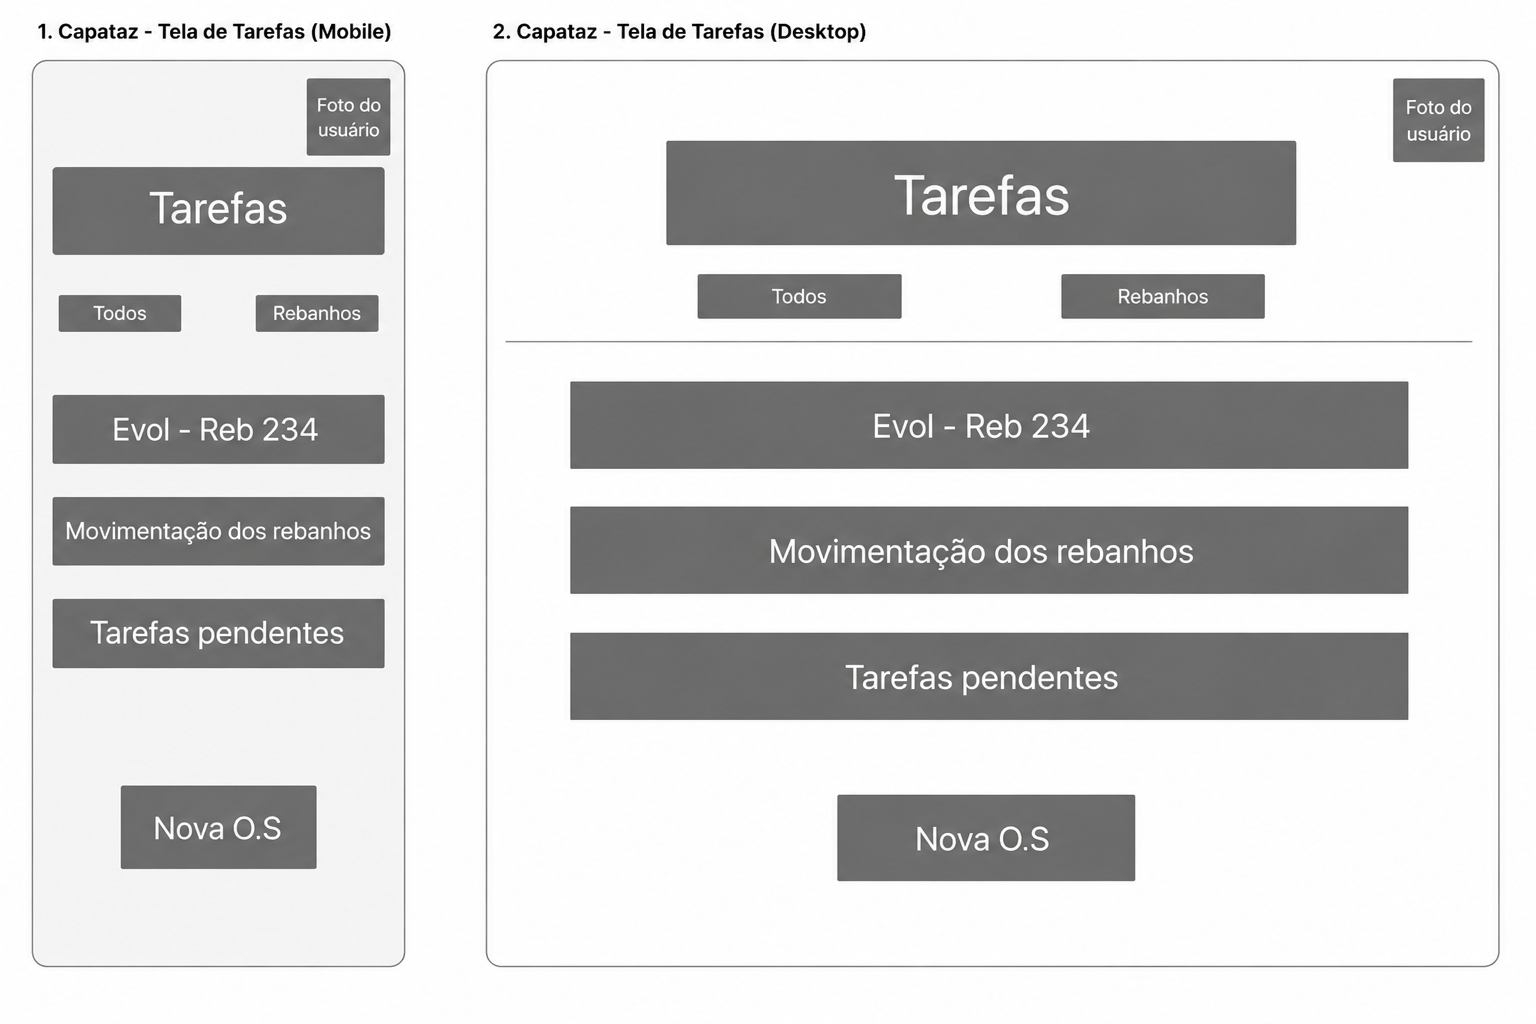
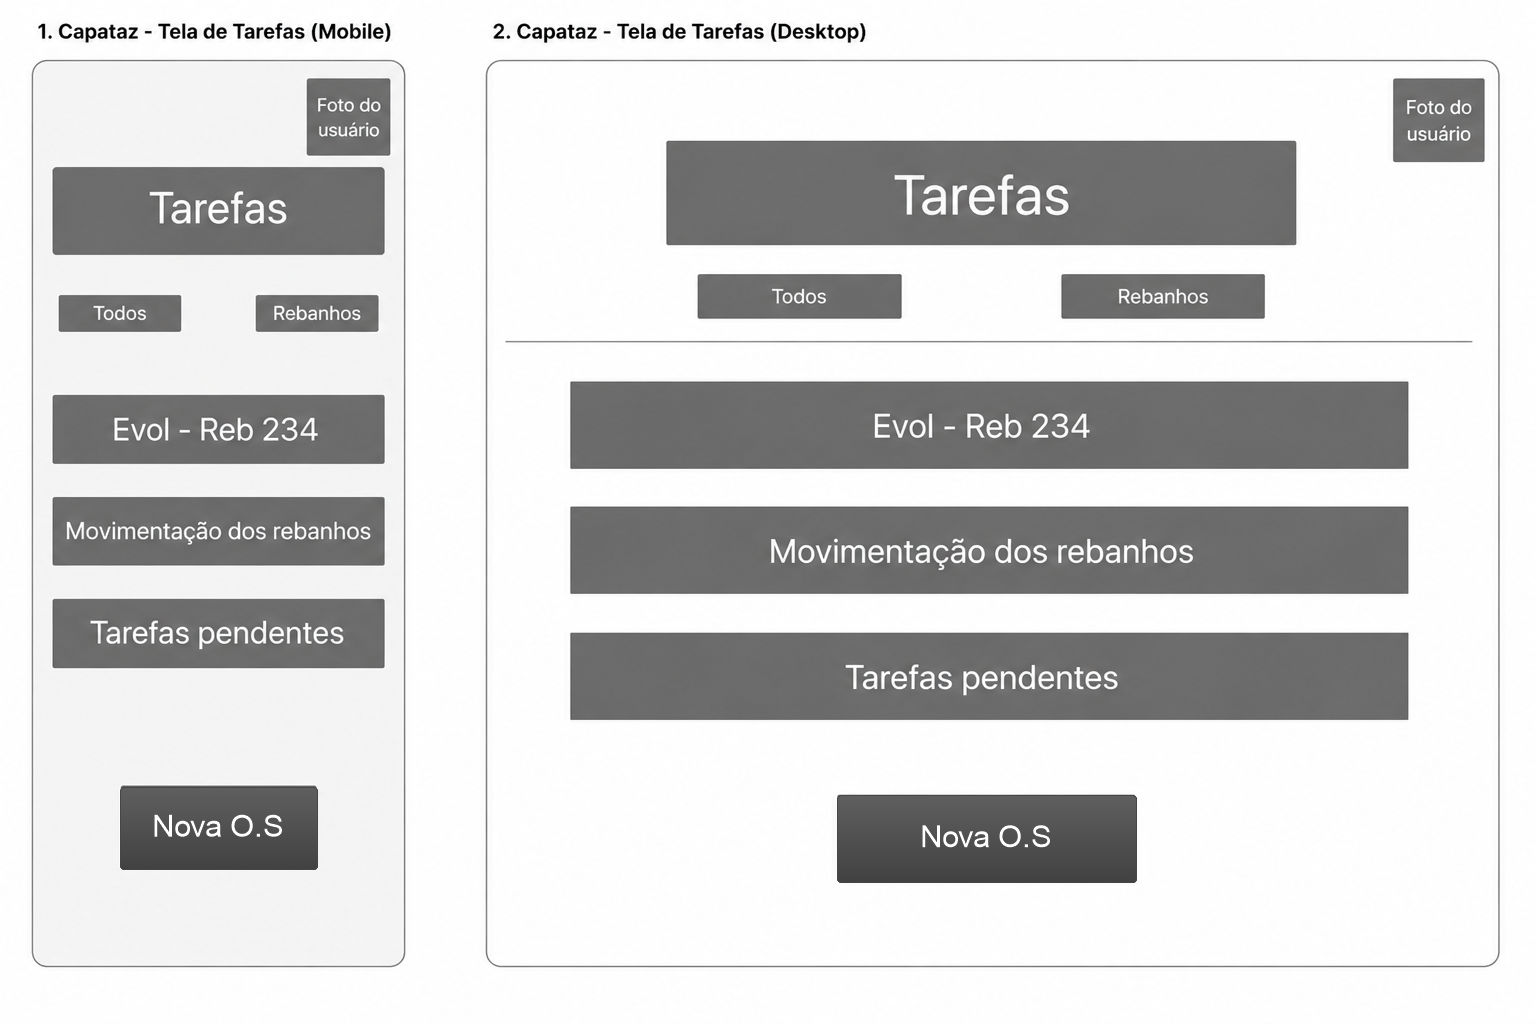
docs (#170): fix textos seção 3.3 WAD

Changed region(s): [[0.5312, 0.7812, 0.75, 0.875], [0.0625, 0.7812, 0.2188, 0.875]]

diff --git a/documentos/wad.md b/documentos/wad.md
@@ -2093,47 +2093,91 @@ _Documente os design patterns utilizados (Repository, Strategy, Factory, DTO etc
 
 ## 3.3. Wireframes (sprint 2)
 
+Os wireframes apresentados nesta seção foram elaborados para representar as User Stories priorizadas junto ao orientador: **US01** (Gerente cria e distribui tarefas), **US02** (Capataz visualiza lista de tarefas offline), **US03** (Capataz conclui tarefa), **US04** (Capataz anexa fotos como evidência) e **US06/US07** (Capataz emite alerta de infraestrutura; Gerente acompanha painel de tarefas e alertas). O design foi desenvolvido no Figma, priorizando clareza e uso de grid para organização dos elementos. O arquivo completo pode ser acessado pelo link público: [Wireframes BRPec — Figma](https://www.figma.com/design/jJjDkweFhygUKwONkyivtb/Untitled?node-id=0-1&t=QpPbn00WVpCx2EiT-0).
+
+Os fluxos de navegação estão organizados em três jornadas principais:
+
+**Fluxo 1 — Capataz (US02 → US03 → US04):** O capataz acessa a lista de tarefas do dia (US02). Ao selecionar uma tarefa, é direcionado à tela de conclusão, onde pode marcar a tarefa como concluída (US03). A partir dessa tela, ele acessa a tela de anexo de fotos para registrar evidências fotográficas do serviço realizado (US04).
+
+**Fluxo 2 — Capataz e Técnico de Infraestrutura (US06):** O capataz acessa a seção de infraestrutura, visualiza os chamados abertos e pode registrar um novo alerta informando tipo de problema, localização e descrição. O técnico de infraestrutura, ao acessar o mesmo módulo, visualiza o detalhe do chamado e registra a resolução, encerrando o ciclo do alerta.
+
+**Fluxo 3 — Gerente (US07 → US01):** O gerente acessa o dashboard, onde visualiza o status consolidado de todas as tarefas e alertas por retiro (US07). A partir do painel, pode criar uma nova Ordem de Serviço (US01), preenchendo as informações da tarefa e atribuindo-a ao retiro e capataz responsável. O capataz também pode abrir uma O.S. em campo quando identificar uma nova demanda operacional.
+
+---
+
+### Fluxo 1 — Capataz: visualizar e concluir tarefas com evidências (US02, US03, US04)
+
 <center>
-  <p><strong>Figura 10</strong> — Wireframe da tela de tarefas do capataz</p>
+  <p><strong>Figura 10</strong> — Wireframe da tela de lista de tarefas do capataz (US02)</p>
   <img src="./assets/wireframeCapatazTarefas.png" width="800"/>
   <p>Fonte: Próprios autores (2026).</p>
 </center>
 
+A tela de lista de tarefas é o ponto de entrada do capataz no aplicativo. Ela exibe as tarefas do dia agrupadas por status (pendente, em andamento, concluída), atendendo à necessidade de acesso offline (US02). O capataz seleciona uma tarefa para avançar ao fluxo de conclusão e também pode abrir uma nova Ordem de Serviço quando identificar uma demanda em campo.
+
 <center>
-<p><strong>Figura 11</strong> — Wireframe capataz - concluir tarefa (mobile/tablet/desktop)</p>
+<p><strong>Figura 11</strong> — Wireframe da tela de conclusão de tarefa do capataz — versões mobile, tablet e desktop (US03)</p>
  <img src="./assets/wireframeCapatazConcluirTarefaTablet.png" width="800"/>
  <p>Fonte: Próprios autores (2026).</p>
 </center>
 
+A tela de conclusão de tarefa permite ao capataz marcar a tarefa como concluída e, opcionalmente, adicionar observações (US03). O layout foi projetado de forma responsiva, adaptando-se a dispositivos móveis, tablets e desktops. A partir desta tela, o capataz pode acessar a tela de anexo de fotos.
+
 <center>
-  <p><strong>Figura 12</strong> — Wireframe da tela de anexar fotos pelo capataz</p>
+  <p><strong>Figura 12</strong> — Wireframe da tela de anexo de fotos pelo capataz (US04)</p>
   <img src="./assets/wireframeCapatazAnexarFotos.png" width="800"/>
   <p>Fonte: Próprios autores (2026).</p>
 </center>
 
+A tela de anexo de fotos permite ao capataz capturar ou selecionar imagens da galeria do dispositivo para comprovar visualmente o serviço realizado (US04).
+
+---
+
+### Fluxo 2 — Capataz e Técnico: emitir e resolver alertas de infraestrutura (US06)
+
 <center>
-  <p><strong>Figura 13</strong> — Wireframe da tela de infraestrutura</p>
+  <p><strong>Figura 13</strong> — Wireframe da tela de infraestrutura — lista de chamados (US06)</p>
   <img src="./assets/wireframeInfraestrutura.png" width="800"/>
   <p>Fonte: Próprios autores (2026).</p>
 </center>
 
+A tela de infraestrutura exibe os chamados de manutenção em aberto. O capataz pode registrar um novo alerta informando o tipo de problema (cerca, bebedouro, hidráulica, elétrica), a localização e uma descrição (US06). O técnico de infraestrutura visualiza os chamados atribuídos a ele nesta mesma lista.
+
 <center>
-  <p><strong>Figura 14</strong> — Wireframe da tela de infraestrutura registrar resolução</p>
+  <p><strong>Figura 14</strong> — Wireframe da tela de detalhe do chamado (US06)</p>
+  <img src="./assets/wireframeDetalheDoChamado.png" width="800"/>
+  <p>Fonte: Próprios autores (2026).</p>
+</center>
+
+A tela de detalhe do chamado apresenta as informações completas do alerta: tipo de problema, localização, data de abertura, capataz responsável pela emissão e status atual. A partir desta tela, o técnico de infraestrutura acessa a opção de registrar a resolução.
+
+<center>
+  <p><strong>Figura 15</strong> — Wireframe da tela de registro de resolução de infraestrutura (US06)</p>
   <img src="./assets/wireframeInfraestruturaRegistrarResolucao.png" width="800"/>
   <p>Fonte: Próprios autores (2026).</p>
 </center>
 
+A tela de registro de resolução permite ao técnico de infraestrutura descrever a solução aplicada e encerrar o chamado.
+
+---
+
+### Fluxo 3 — Gerente: acompanhar painel e criar ordens de serviço (US07, US01)
+
 <center>
-  <p><strong>Figura 15</strong> — Wireframe da tela de dashboard do gerente</p>
+  <p><strong>Figura 16</strong> — Wireframe da tela de dashboard do gerente (US07)</p>
   <img src="./assets/wireframeGerenteDashboard.png" width="800"/>
   <p>Fonte: Próprios autores (2026).</p>
 </center>
 
+O dashboard do gerente consolida o status de todas as tarefas e alertas por retiro (US07). As tarefas são agrupadas por status (pendente, em andamento, concluída) e os alertas de infraestrutura aparecem em seção destacada. A partir do painel, o gerente pode navegar para a criação de uma nova Ordem de Serviço.
+
 <center>
-  <p><strong>Figura 16</strong> — Wireframe da tela de nova O.S do gerente</p>
+  <p><strong>Figura 17</strong> — Wireframe da tela de criação de nova O.S. pelo gerente (US01)</p>
   <img src="./assets/wireframeGerenteNovaOs.png" width="800"/>
   <p>Fonte: Próprios autores (2026).</p>
 </center>
+
+A tela de nova Ordem de Serviço permite ao gerente criar uma tarefa, definir a descrição, o retiro de destino, o capataz responsável e o prazo de execução (US01).
 
 ## 3.4. Guia de estilos (sprint 3)
 
@@ -2193,7 +2237,7 @@ Este diagrama registra a estrutura de dados concebida na sprint 2, com a Boleta 
 A seção 3.6.1 apresenta a versão conceitual consolidada após a evolução deste DER: a Boleta deixa de ser uma entidade isolada e passa a ser materializada pelos registros de Movimentação, Tarefa, Alerta e Evidência. Essa decisão separou melhor as responsabilidades de cada entidade e eliminou atributos que não são pertinentes a todos os tipos de evento.
 
 <center>
-  <p><strong>Figura 17</strong> — DER conceitual da sprint 2 — BRPec Agropecuária</p>
+  <p><strong>Figura 18</strong> — DER conceitual da sprint 2 — BRPec Agropecuária</p>
 </center>
 
 <img src="./assets/modelo-er-brpec.png" width="800"/>
@@ -2229,7 +2273,7 @@ A evolução conceitual está apresentada nas seções 3.6.1 e 3.6.2. Nesta seç
 | `sync_queue`     | `id`           | —                                                          | Fila técnica de sincronização offline-online    |
 
 <center>
-  <p><strong>Figura 18</strong> — Modelo Relacional</p>
+  <p><strong>Figura 19</strong> — Modelo Relacional</p>
   <p>Fonte: Próprios autores (2026).</p>
 </center>
 